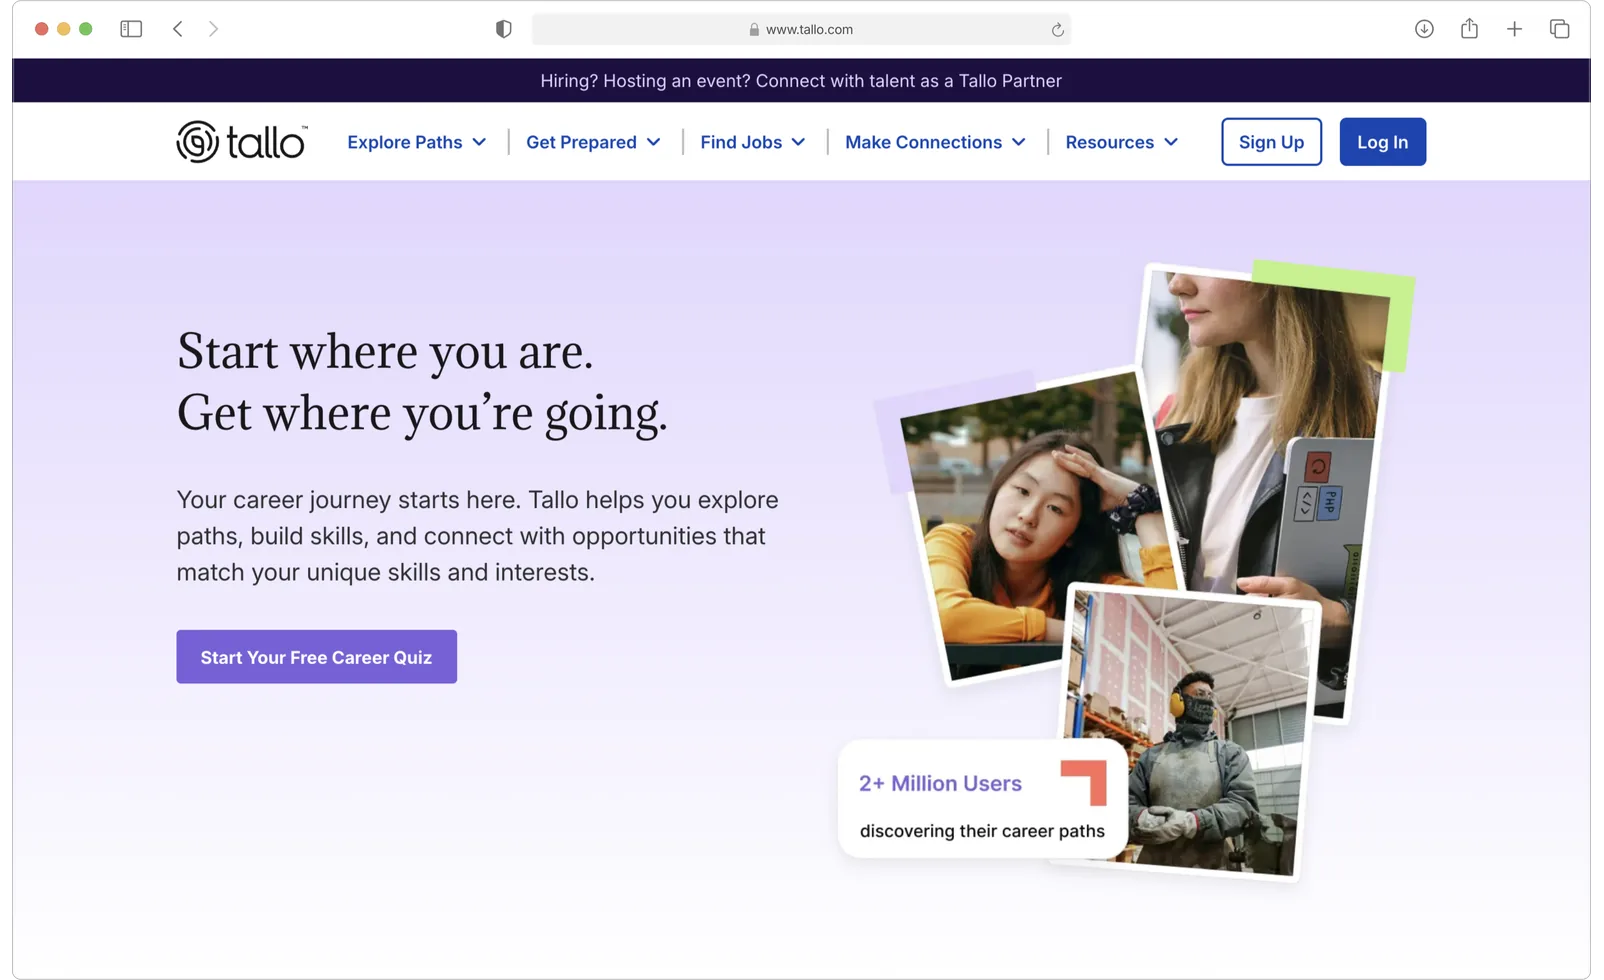
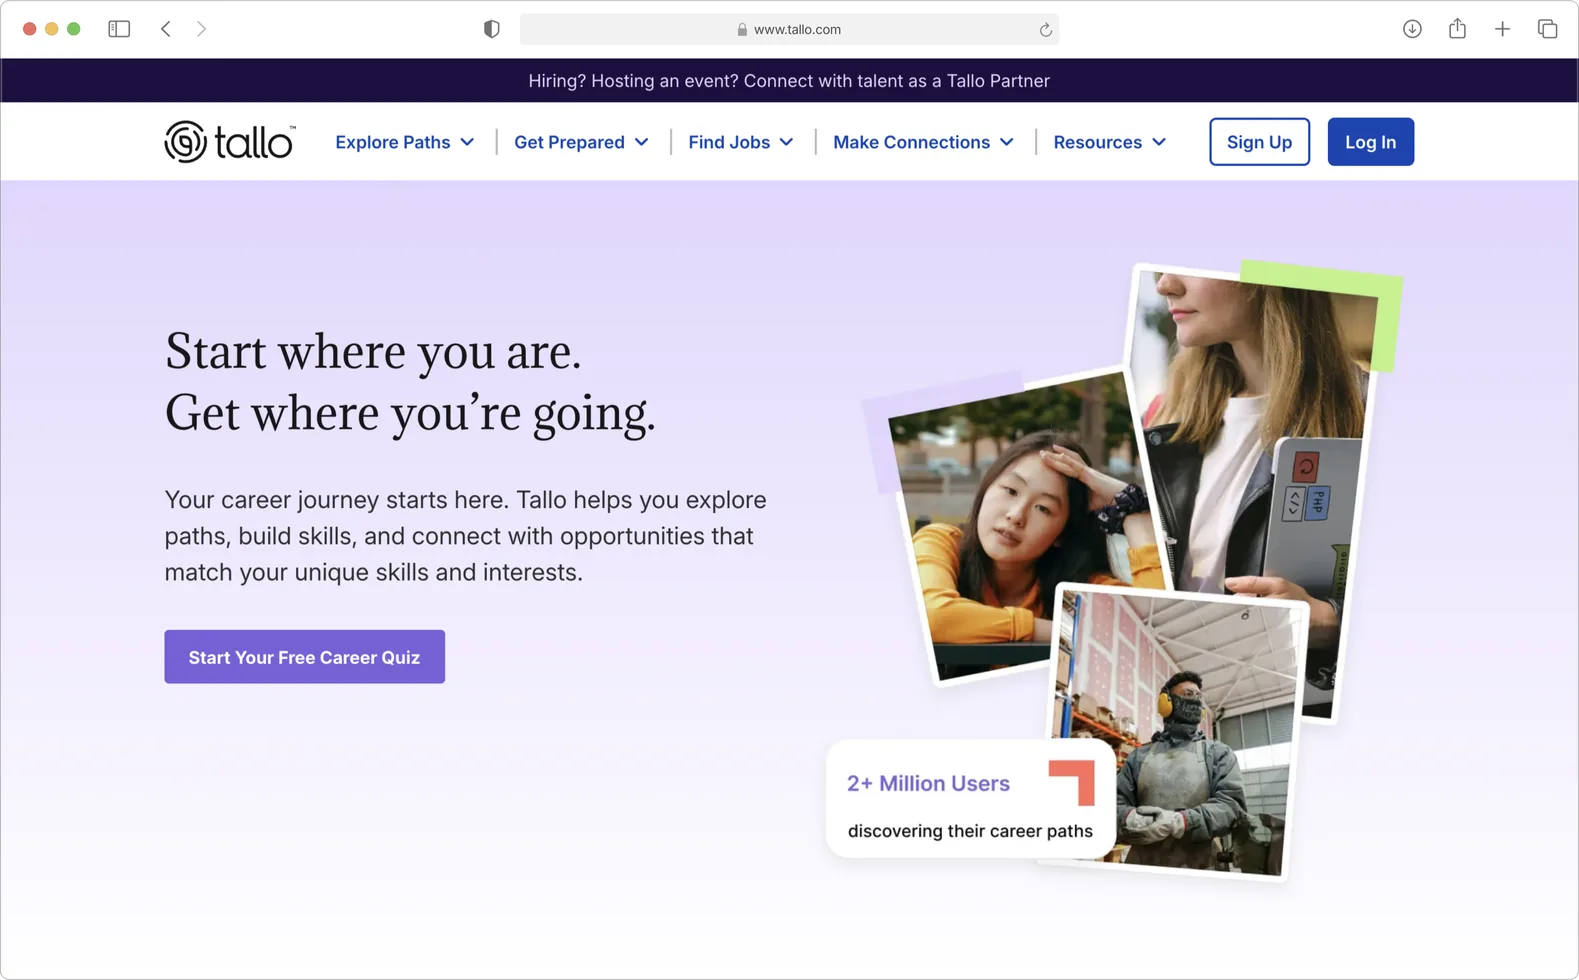
Match chapter 2's before and after windows so the toggle swaps in place

diff --git a/src/content/case-studies/cal.ts b/src/content/case-studies/cal.ts
@@ -170,9 +170,10 @@ const buildStyle = [
 ]
 
 // Chapter 2's homepage before and after: Cal-Visuals/02-problem/Tallo-LP-*.png whole, Safari window
-// and all (Kai, 2026-10-22: the tight crops lost too much). Each is trimmed to its window and shadow,
-// scaled to 980px tall, and centered on a shared 1604x980 transparent canvas, so the toggle swaps
-// in place. Before public: the new one still shows the unverified "2+ Million Users" badge, and the
+// and all (Kai, 2026-10-22: the tight crops lost too much). The before window was 59px wider, so
+// plain columns are cut out of it until both windows match, then each is trimmed to its window and
+// shadow and scaled to exactly 1579x980, so the toggle swaps in place with no edge jump (Kai,
+// 2026-10-23; script in the sprint folder's problem-build/). Before public: the new one still shows the unverified "2+ Million Users" badge, and the
 // old one the CBS News bar.
 
 // Chapter 3's Calvolution, from Kai's Paper export Cal-Visuals/03-finding-cal/03-findingcal.png
@@ -326,7 +327,7 @@ export const cal: CaseStudy = {
           kind: 'visual',
           visual: {
             label: 'Before/after toggle: old homepage with three equal buttons, new homepage with one button, "Start Your Free Career Quiz"',
-            aspect: '1604 / 980',
+            aspect: '1579 / 980',
             compare: [
               {
                 label: 'Before',
